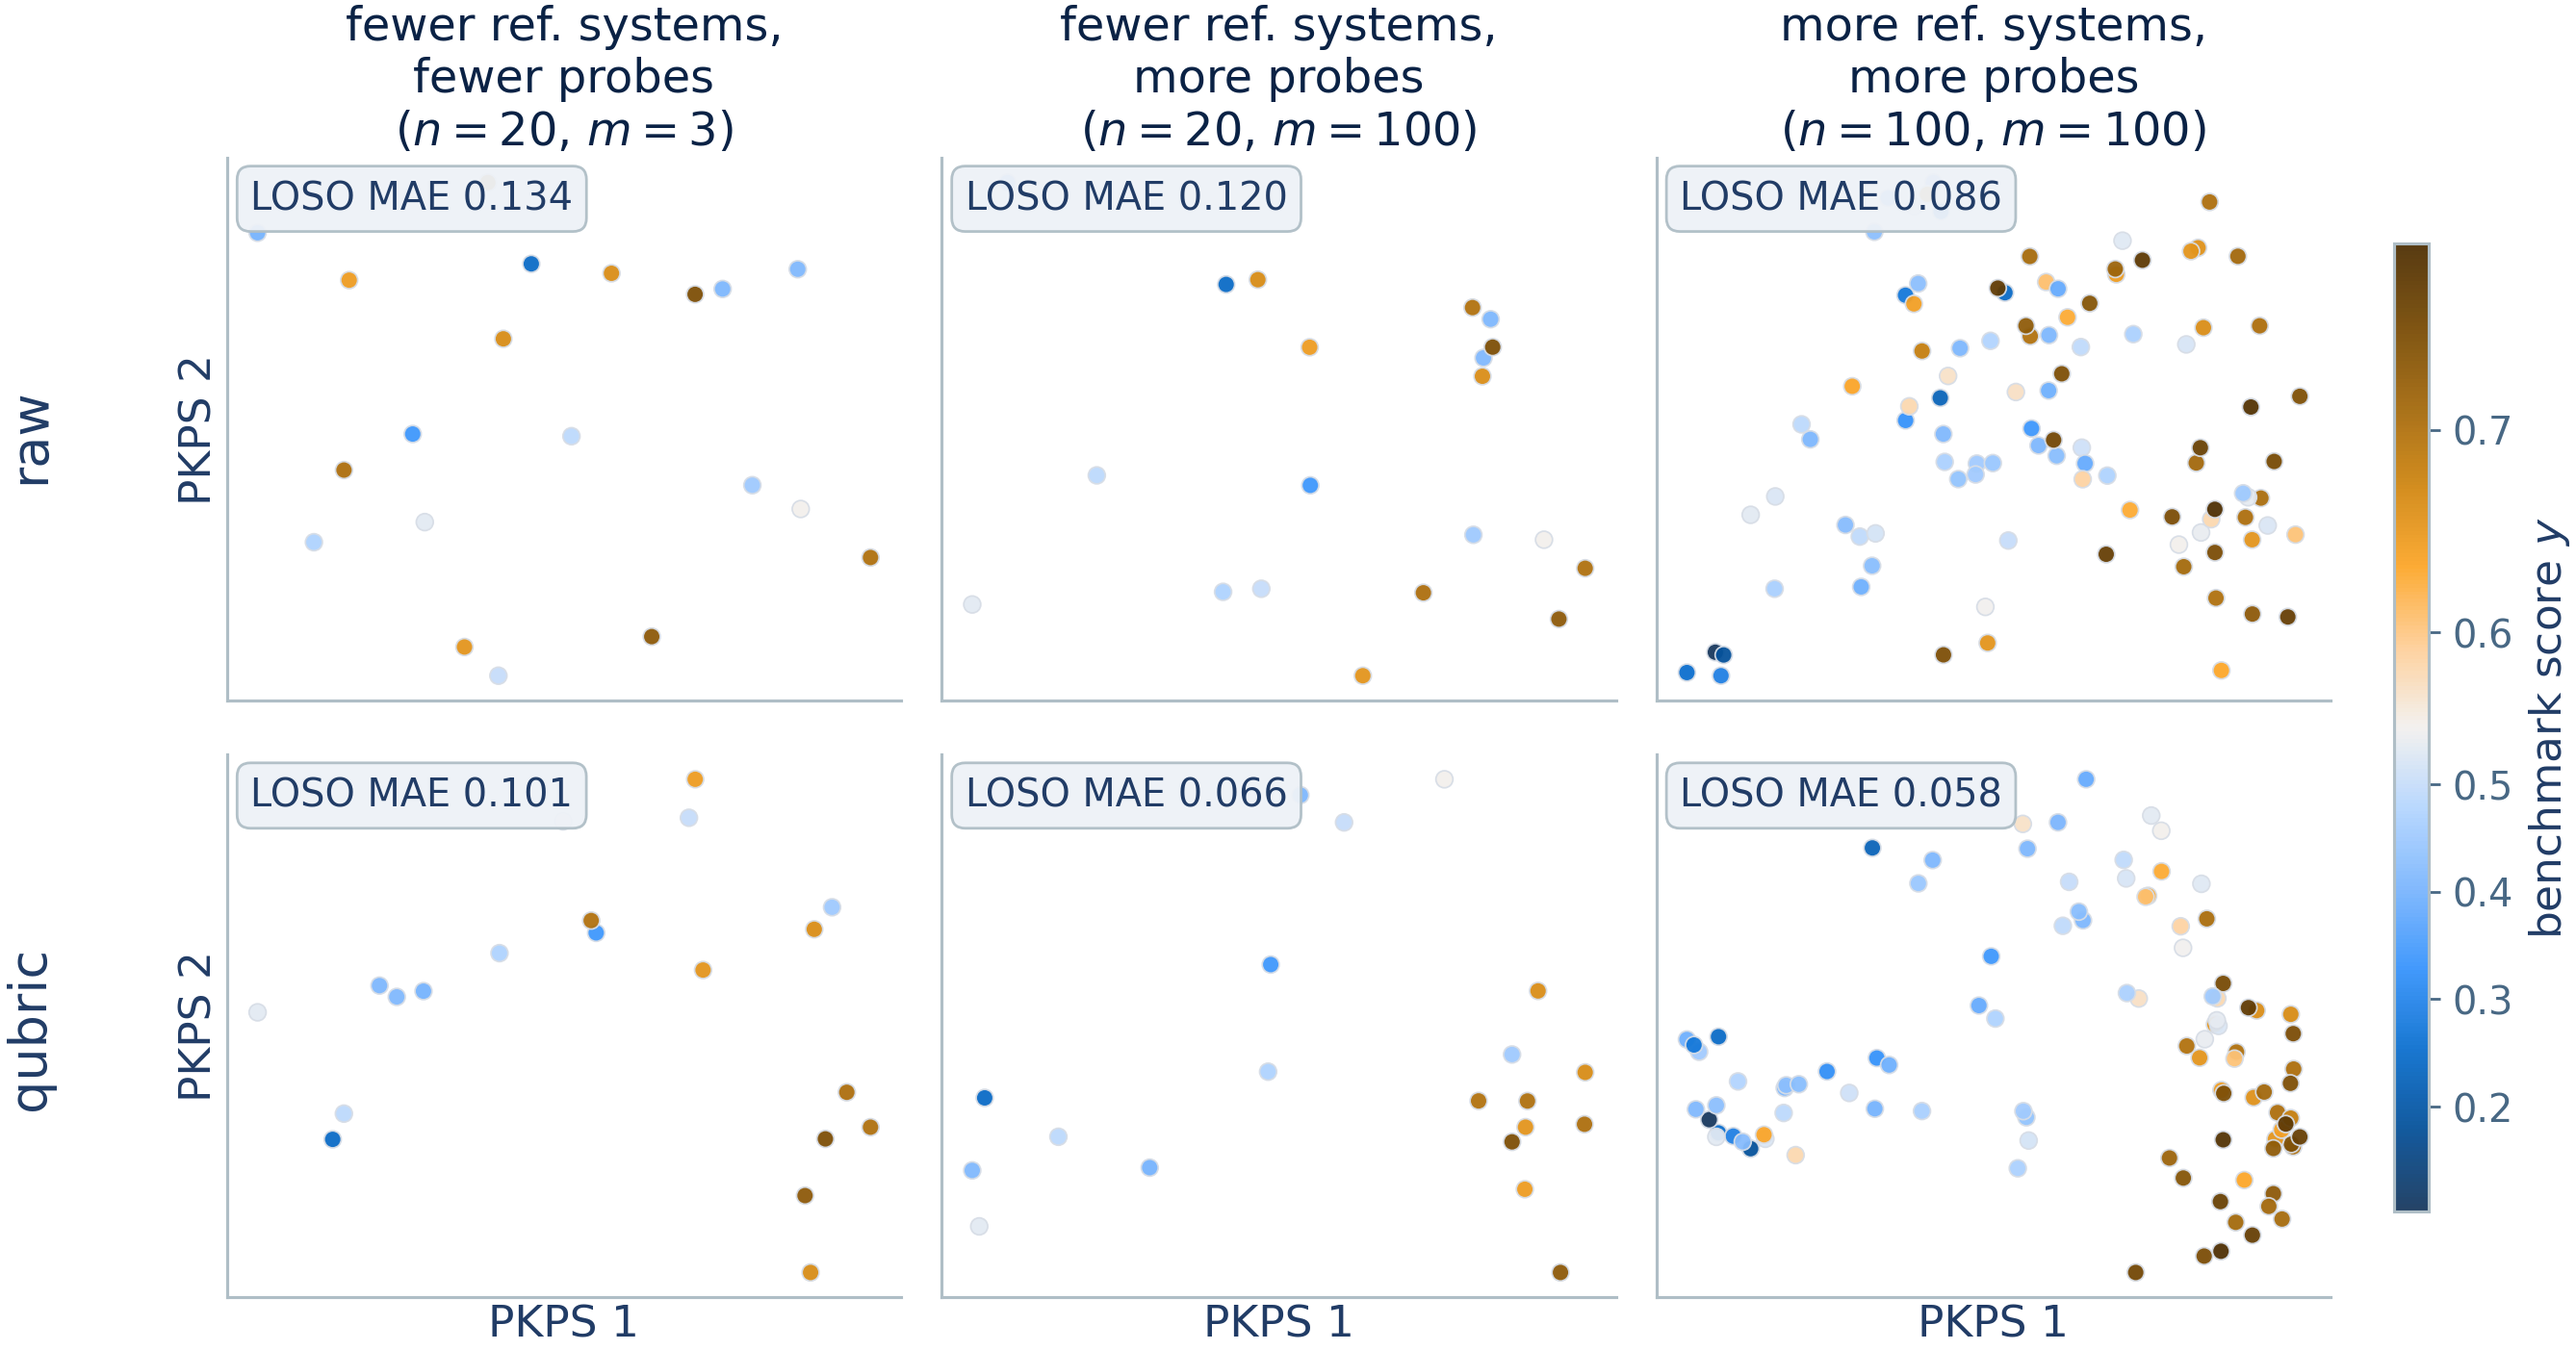
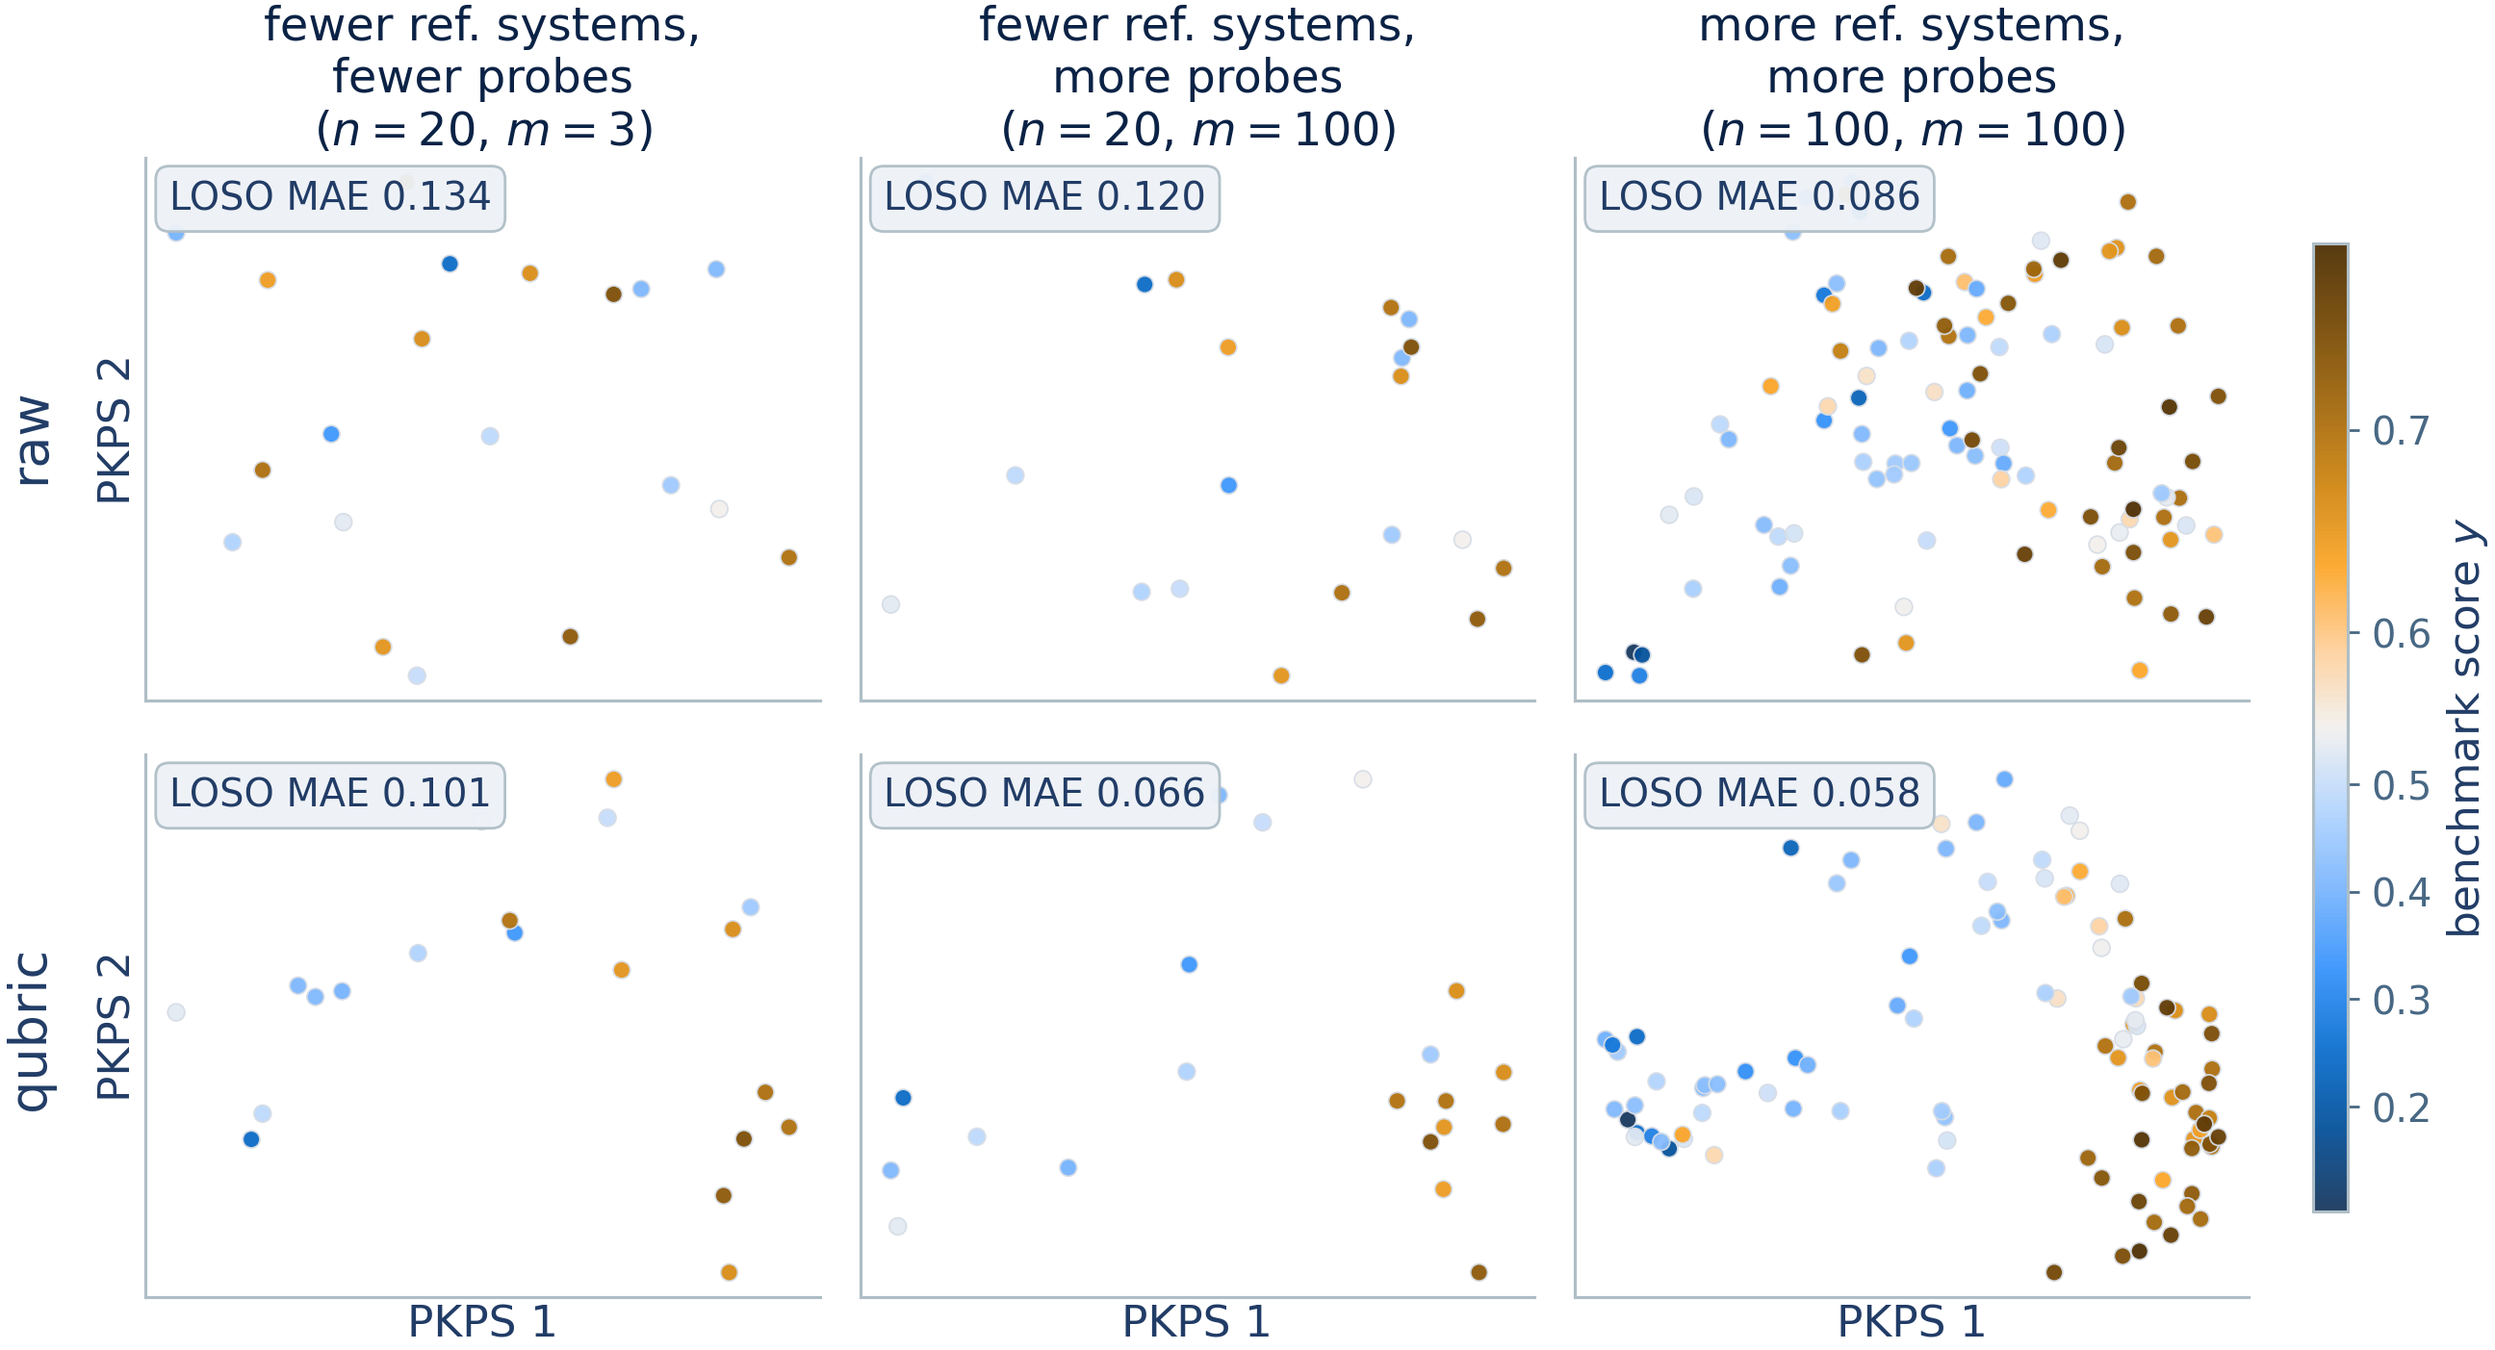
pkps: move raw/qubric row labels next to y labels
Claude-Session: https://claude.ai/code/session_01RGusFFXzoPTkSKgzzDLjNv

diff --git a/scripts/fig2_nm.py b/scripts/fig2_nm.py
@@ -130,7 +130,7 @@ def main():
                 ax.set_xlabel('PKPS 1', fontsize=SZ['tick'], labelpad=2)
         axes[r, 0].set_ylabel('PKPS 2', fontsize=SZ['tick'], labelpad=2)
     for r, rname in enumerate(('raw', 'qubric')):
-        fig.text(.022, .62 - .385 * r, rname, rotation=90,
+        fig.text(.048, .62 - .385 * r, rname, rotation=90,
                  fontsize=SZ['label'], color=hv_style.INK,
                  va='center', ha='center')
     cb = fig.colorbar(sc, ax=axes, shrink=.85, pad=.025, aspect=28)
